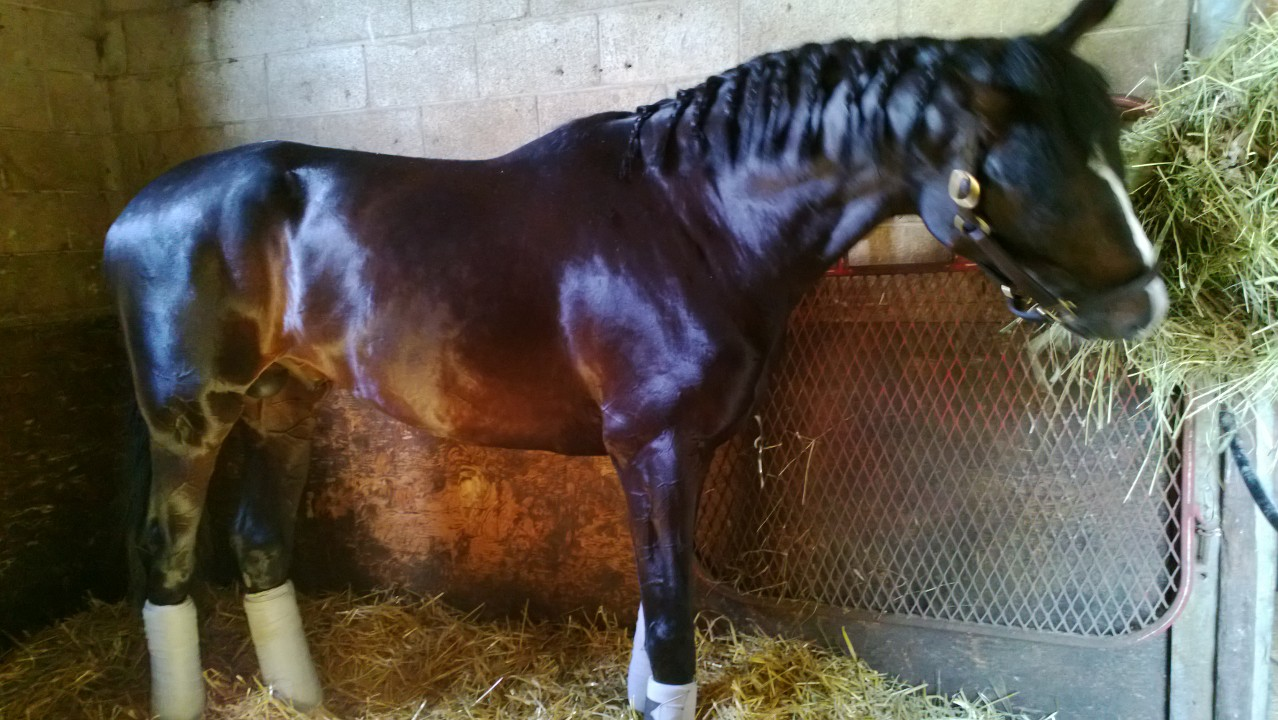
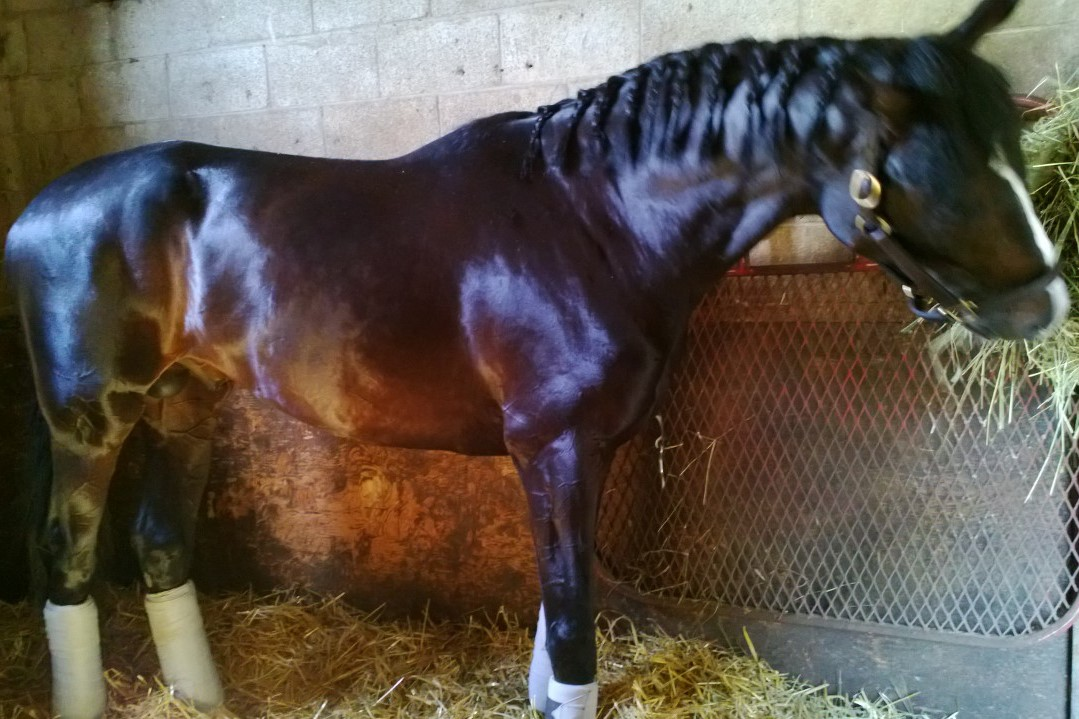
media query pictures

diff --git a/index.html b/index.html
@@ -40,7 +40,8 @@
   <section class="slider">
     <ul class="slides">
       <li>
-        <img src="images/myView.jpg">
+        <img class="hide-on-med-and-up"src="images/myView-sm.jpg">
+        <img class="show-on-medium-and-up"src="images/myView-lg.jpg">
         <!-- random image -->
         <div class="caption left-align">
           <h2>Business Tax</h2>
@@ -48,14 +49,17 @@
         </div>
       </li>
       <li>
-        <img src="images/Tiz.jpg">
+        <img class="hide-on-med-and-up"src="images/Addaquart.jpg">
+        <img class="show-on-medium-and-up"src="images/Tiz-lg.jpg">
+
         <!-- random image -->
         <div class="caption left-align">
           <h2>Individual Tax</h2>
         </div>
       </li>
       <li>
-        <img src="images/Howard.jpg">
+        <img class="hide-on-med-and-up"src="images/Howard-sm.jpg">
+        <img class="show-on-medium-and-up"src="images/Howard-lg.jpg">
         <!-- random image -->
         <div class="caption left-align">
           <h2>Tax Planning</h2>
@@ -69,7 +73,8 @@
         </div>
       </li>
       <li>
-        <img src="images/Ferry.jpg">
+        <img class="hide-on-med-and-up"src="images/Ferry-sm.jpg">
+        <img class="show-on-medium-and-up"src="images/Ferry-lg.jpg">
         <!-- random image -->
         <div class="caption left-align">
           <h2>Budgets & Forecasts</h2>
@@ -129,9 +134,9 @@
     Enter you taxable income and filing status.  Please exclude any capital gains or losses.
     <br><br>
      <div id = "taxCalculator" class = "row center block">
-      <input type="number" id="income" class="col s3" lang="en-150" placeholder="Enter your taxable income">    
+      <input type="number" id="income" class="col s3" lang="en-150" placeholder="Income">    
       <select id="status" class="browser-default col s3">
-        <option value="0">Select Filing Status</option>
+        <option value="0">Select</option>
         <option value="IND">Single</option>
         <option value="MFJ">Married Filing Jointly</option>
         <option value="MFS">Married Filing Separately</option>

diff --git a/css/main.css b/css/main.css
@@ -13,8 +13,8 @@
   vertical-align: bottom;
   text-align: center;
   height: 2.80rem;
-  margin-left: 25px;
-  width: 28%;
+  margin-left: 20px;
+  width: 25%;
 }
 
 #home-banner{
@@ -27,7 +27,6 @@
 
 .brand-logo{
   height: 2.5rem;
-  
 }
 
 .row{
